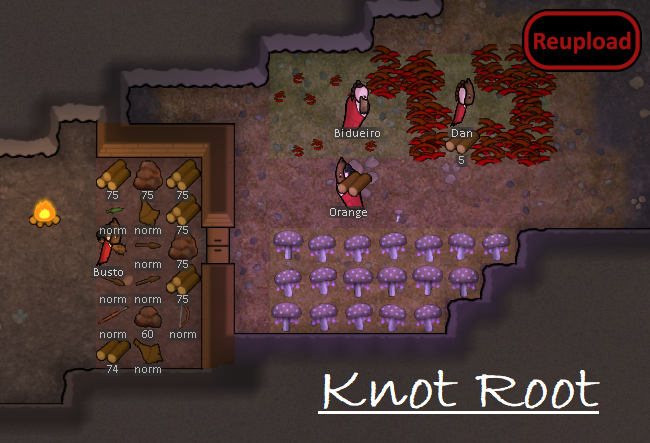
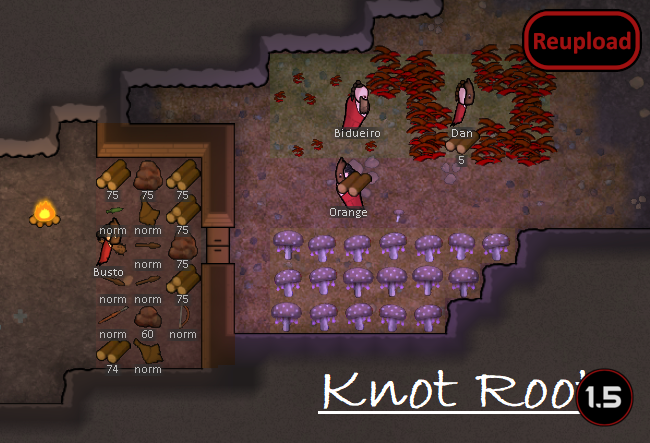
Mod updated for 1.5 and passed autotests

Changed region(s): [[0.8615, 0.8217, 0.9846, 0.9684]]

diff --git a/README.md b/README.md
@@ -5,8 +5,6 @@
 Update of Arbees mod
 https://steamcommunity.com/sharedfiles/filedetails/?id=1511707471
 
-Eggnog has made a  https://steamcommunity.com/sharedfiles/filedetails/?id=2555747644]Retexture mod as well
-
 ![Image](https://i.imgur.com/pufA0kM.png)
 
 	
@@ -23,11 +21,13 @@ Perfect for cave dwelling tribal colony.
 
 -  See if the the error persists if you just have this mod and its requirements active.
 -  If not, try adding your other mods until it happens again.
--  Post your error-log using https://steamcommunity.com/workshop/filedetails/?id=818773962]HugsLib and command Ctrl+F12
+-  Post your error-log using https://steamcommunity.com/workshop/filedetails/?id=818773962]HugsLib or the standalone https://steamcommunity.com/sharedfiles/filedetails/?id=2873415404]Uploader and command Ctrl+F12
 -  For best support, please use the Discord-channel for error-reporting.
 -  Do not report errors by making a discussion-thread, I get no notification of that.
 -  If you have the solution for a problem, please post it to the GitHub repository.
+-  Use https://github.com/RimSort/RimSort/releases/latest]RimSort to sort your mods
 
 
 
+https://steamcommunity.com/sharedfiles/filedetails/changelog/2018961250]![Image](https://img.shields.io/github/v/release/emipa606/KnotRoot?label=latest%20version&style=plastic&color=9f1111&labelColor=black)
 
